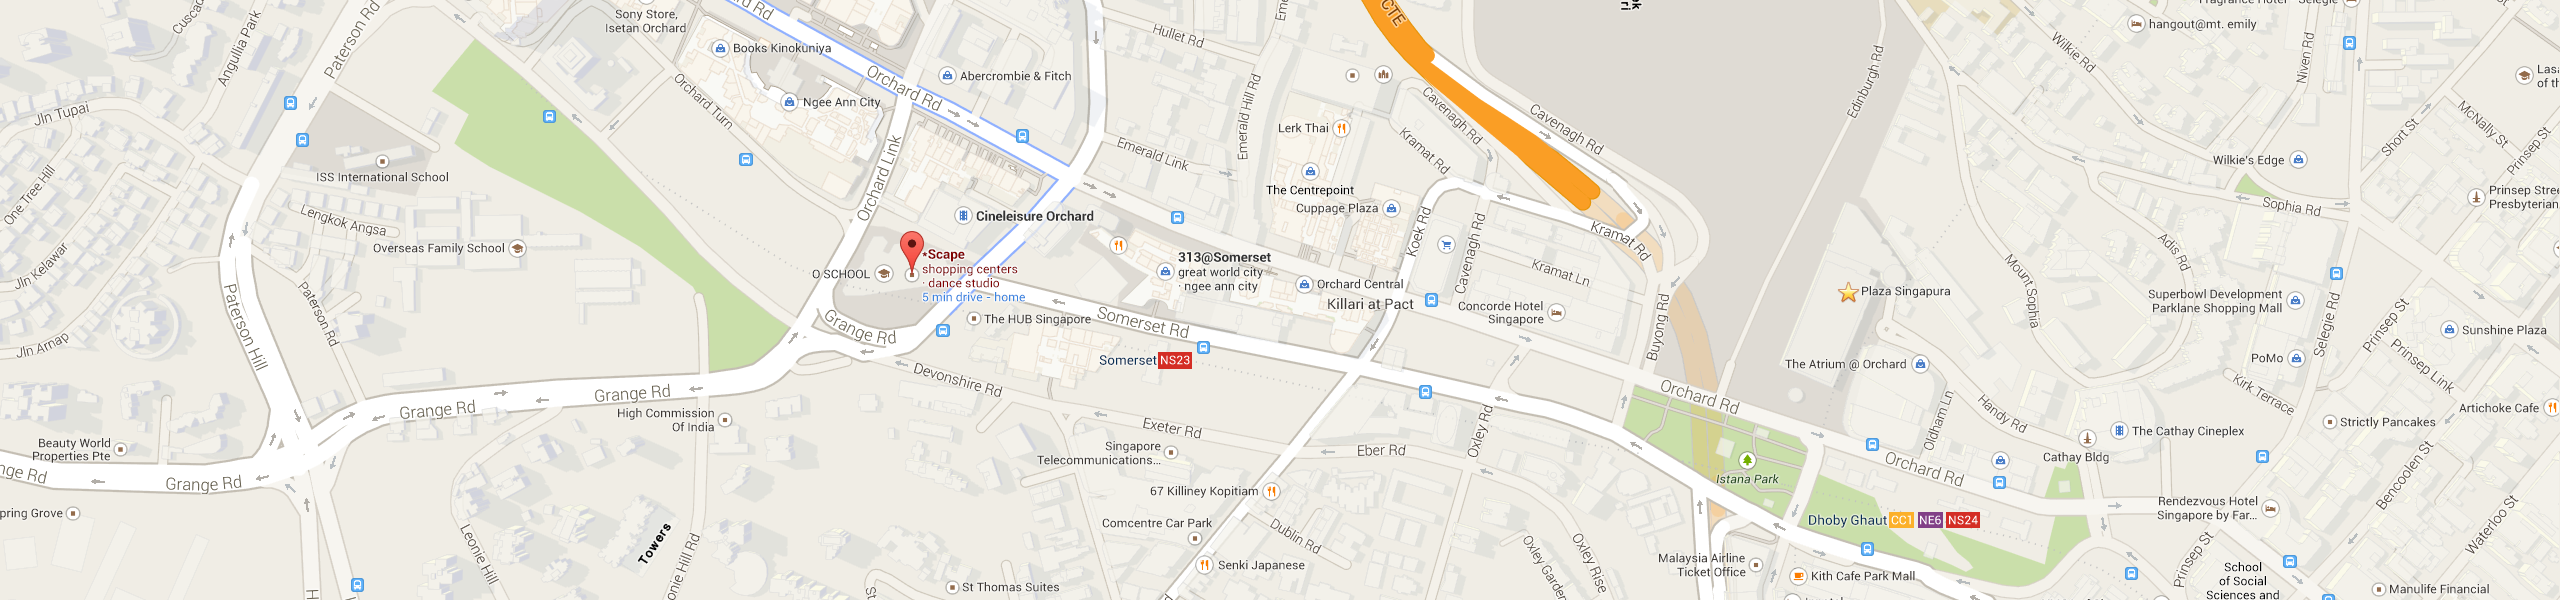
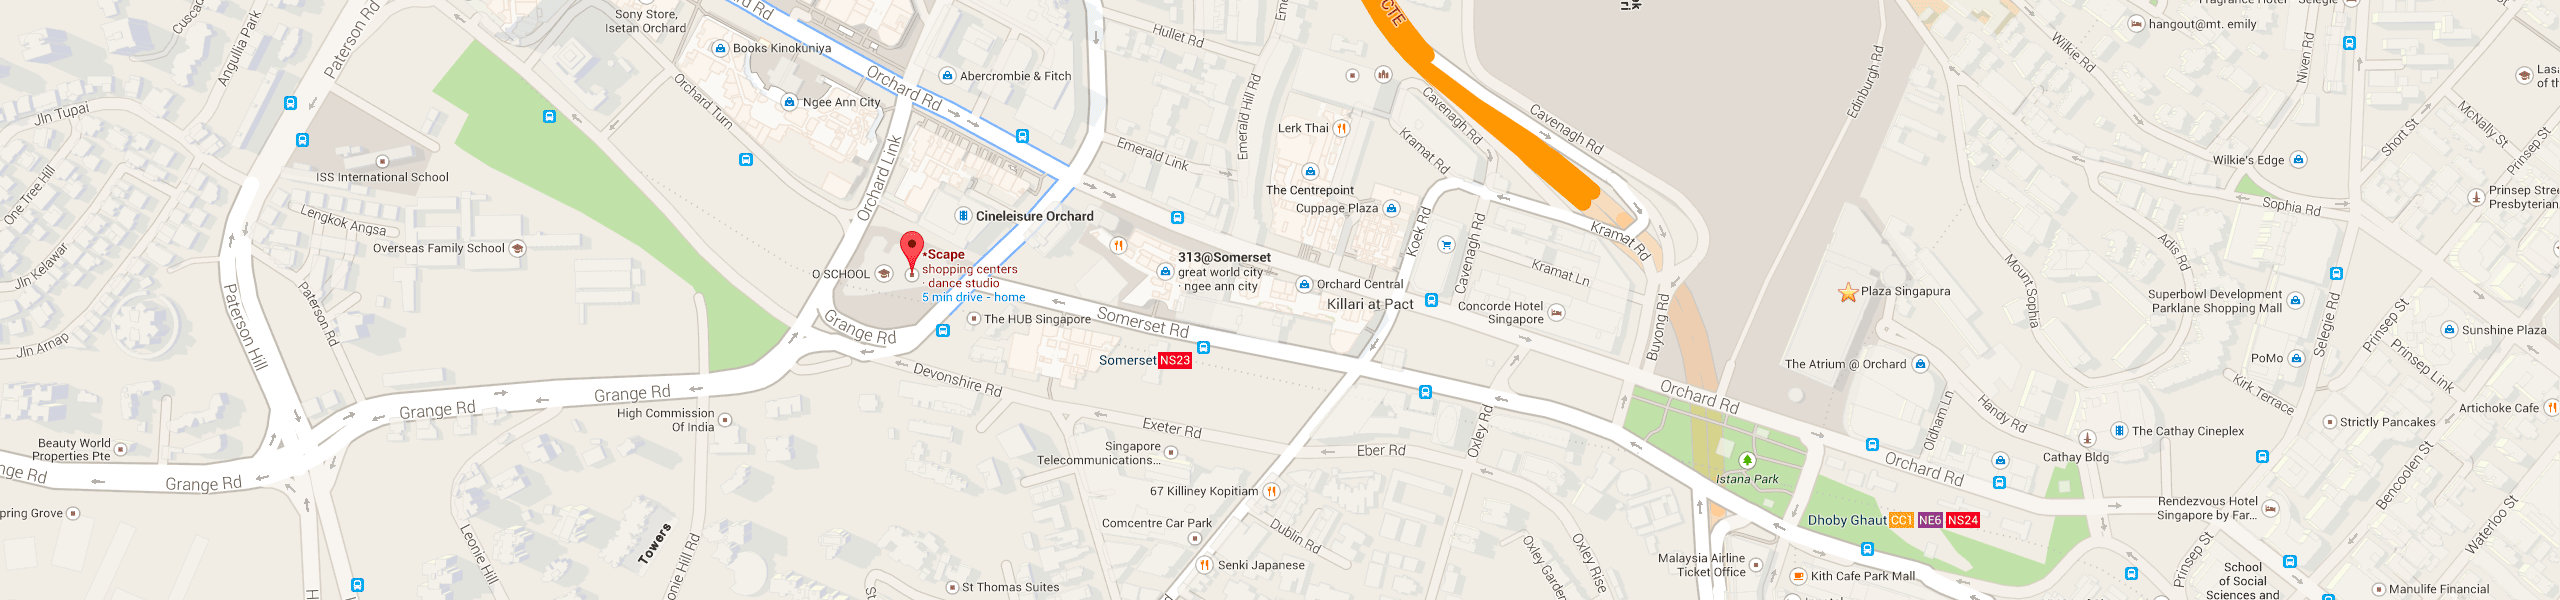
added in some images and optimized them a little

diff --git a/index.html b/index.html
@@ -82,19 +82,21 @@
           <div class="logo-container col-xs-6 col-sm-4"><img src="images/googleLogo.png" class="company-logo"></div>
           <div class="logo-container col-xs-6 col-sm-4"><img src="images/microsoftLogo.png" class="company-logo"></div>
           <div class="logo-container col-xs-6 col-sm-4"><img src="images/paypalLogo.png" class="company-logo"></div>
+          <div class="logo-container col-xs-6 col-sm-4"><img src="images/carousellLogo.png" class="company-logo"></div>
+          <div class="logo-container col-xs-6 col-sm-4"><img src="images/vikiLogo.png" class="company-logo"></div>
           <div class="logo-container col-xs-6 col-sm-4"><img src="images/autodeskLogo.png" class="company-logo"></div>
-          <div class="logo-container col-xs-6 col-sm-4"><img src="http://placehold.it/300x150" class="company-logo"></div>
-          <div class="logo-container col-xs-6 col-sm-4"><img src="http://placehold.it/300x150" class="company-logo"></div>
-          <div class="logo-container col-xs-6 col-sm-4"><img src="http://placehold.it/300x150" class="company-logo"></div>
-          <div class="logo-container col-xs-6 col-sm-4"><img src="http://placehold.it/300x150" class="company-logo"></div>
-          <div class="logo-container col-xs-6 col-sm-4"><img src="http://placehold.it/300x150" class="company-logo"></div>
+          <div class="logo-container col-xs-6 col-sm-4"><img src="images/garenaLogo.png" class="company-logo"></div>
+          <div class="logo-container col-xs-6 col-sm-4"><img src="images/grabTaxiLogo.png" class="company-logo"></div>
+          <div class="logo-container col-xs-6 col-sm-4"><img src="images/visenzeLogo.png" class="company-logo"></div>
+          <div class="logo-container col-xs-6 col-sm-4"><img src="images/redhatLogo.png" class="company-logo"></div>
+          <div class="logo-container col-xs-6 col-sm-4"><img src="images/zopimLogo.png" class="company-logo"></div>
         </div>
       </div>
     </div>
   </div>
 </section>
 
-<section id="startups">
+<section id="speakers">
   <div class="container">
     <div class="row">
       <div class="col-sm-6 col-sm-offset-3 text-center">
@@ -102,46 +104,81 @@
       </div>
     </div>
     <div class="row">
-      <div class="col-xs-6 col-sm-4 text-center profile">
+      <div class="col-xs-6 col-sm-4 col-md-3 text-center profile">
         <img class="profile-photo img-circle" src="http://placehold.it/400x400" alt="...">
         <div class="caption">
-          <h3>Speaker Name</h3>
-          <p>Company Name</p>
+          <h3>Sergio Salvador</h3>
+          <p>Google - Global Head Games Partnerships</p>
         </div>
       </div>
-      <div class="col-xs-6 col-sm-4 text-center profile">
+      <div class="col-xs-6 col-sm-4 col-md-3 text-center profile">
         <img class="profile-photo img-circle" src="http://placehold.it/400x400" alt="...">
         <div class="caption">
-          <h3>Speaker Name</h3>
-          <p>Company Name</p>
+          <h3>Gang Ye</h3>
+          <p>Garena - Chief Technology Officer</p>
         </div>
       </div>
-      <div class="col-xs-6 col-sm-4 text-center profile">
+      <div class="col-xs-6 col-sm-4 col-md-3 text-center profile">
         <img class="profile-photo img-circle" src="http://placehold.it/400x400" alt="...">
         <div class="caption">
-          <h3>Speaker Name</h3>
-          <p>Company Name</p>
+          <h3>Bunnie</h3>
+          <p>Bunnie Labs - Founder</p>
         </div>
       </div>
-      <div class="col-xs-6 col-sm-4 text-center profile">
+      <div class="col-xs-6 col-sm-4 col-md-3 text-center profile">
         <img class="profile-photo img-circle" src="http://placehold.it/400x400" alt="...">
         <div class="caption">
-          <h3>Speaker Name</h3>
-          <p>Company Name</p>
+          <h3>Murali Pappoppula</h3>
+          <p>Autodesk - Reality Solutions Team</p>
         </div>
       </div>
-      <div class="col-xs-6 col-sm-4 text-center profile">
+      <div class="col-xs-6 col-sm-4 col-md-3 text-center profile">
         <img class="profile-photo img-circle" src="http://placehold.it/400x400" alt="...">
         <div class="caption">
-          <h3>Speaker Name</h3>
-          <p>Company Name</p>
+          <h3>Kailash Sethuraman</h3>
+          <p>Google - Software Engineer</p>
         </div>
       </div>
-      <div class="col-xs-6 col-sm-4 text-center profile">
+      <div class="col-xs-6 col-sm-4 col-md-3 text-center profile">
         <img class="profile-photo img-circle" src="http://placehold.it/400x400" alt="...">
         <div class="caption">
-          <h3>Speaker Name</h3>
-          <p>Company Name</p>
+          <h3>Winston Teo</h3>
+          <p>Ruby User Group</p>
+        </div>
+      </div>
+      <div class="col-xs-6 col-sm-4 col-md-3 text-center profile">
+        <img class="profile-photo img-circle" src="http://placehold.it/400x400" alt="...">
+        <div class="caption">
+          <h3>Oliver Tan</h3>
+          <p>Visenze - Founder</p>
+        </div>
+      </div>
+      <div class="col-xs-6 col-sm-4 col-md-3 text-center profile">
+        <img class="profile-photo img-circle" src="http://placehold.it/400x400" alt="...">
+        <div class="caption">
+          <h3>Alvin Jiang</h3>
+          <p>PayPal - Technology Manager</p>
+        </div>
+      </div>
+      <div class="col-xs-6 col-sm-4 col-md-3 text-center profile">
+        <img class="profile-photo img-circle" src="http://placehold.it/400x400" alt="...">
+        <div class="caption">
+          <h3>Aaron Gill</h3>
+          <p>GrabTaxi - Head of Product</p>
+        </div>
+      </div>
+      <div class="col-xs-6 col-sm-4 col-md-3 text-center profile">
+        <img class="profile-photo img-circle" src="http://placehold.it/400x400" alt="...">
+        <div class="caption">
+          <h3>Tan Chun Siong</h3>
+          <p>Microsoft - Technical Evangelist</p>
+        </div>
+      </div>
+      <div class="col-xs-6 col-sm-4 col-md-3 text-center profile">
+        <img class="profile-photo img-circle" src="http://placehold.it/400x400" alt="...">
+        <div class="caption">
+          <h3>Justin Halim</h3>
+          <p>Facebook - Head of Agencies, Southeast Asia</p>
         </div>
       </div>
     </div>
@@ -156,10 +193,12 @@
       <thead>
         <tr><th>Time</th><th>Room 1</th><th>Room 2</th></tr>
       </thead>
-      <tbody>        <tr><td>11:30am</td><td>Registration</td><td>Registration</td></tr>
-        <tr><td>12:00pm</td><td>Opening &amp; Keynote</td><td>Registration</td></tr>
-        <tr><td>1:00pm</td><td>Tech Speaker 1</td><td>Non-tech Speaker 1</td></tr>
-        <tr><td>1:45pm</td><td>Tech Speaker 2</td><td>Non-tech Speaker 2</td></tr>
+      <tbody>
+        <tr><td>12:00pm</td><td colspan="2">Registration</td></tr>
+        <tr><td>12:30pm</td><td colspan="2">Zopim</td></tr>
+        <tr><td>12:50pm</td><td colspan="2">Google</td></tr>
+        <tr><td>1:30pm</td><td>Bunnie &amp; Sean</td><td>Tan Chun Siong</td></tr>
+        <tr><td>1:55pm</td><td>Murali Pappoppula</td><td>Non-tech Speaker 2</td></tr>
         <tr><td>2:10pm</td><td>Tech Speaker 3</td><td>Non-tech Speaker 3</td></tr>
         <tr><td>2:50pm</td><td>Mid-term speec</td><td>Registration</td></tr>
         <tr><td>3:20pm</td><td>Tech Speaker 4</td><td>Non-tech Speaker 4</td></tr>
@@ -180,17 +219,8 @@
     </div>
   </div>
 </section>
-<div>
-  <div class="container-fluid">
-    <div class="row">
-      <div id="location-image1" class="location-image col-sm-4"></div>
-      <div id="location-image2" class="location-image col-sm-4"></div>
-      <div id="location-image3" class="location-image col-sm-4"></div>
-    </div>
-  </div>
-</div>
 
-<section>
+<section id="registration">
   <div class="container">
     <iframe id="registration-frame" src="//eventbrite.sg/tickets-external?eid=12362824541&ref=etckt" frameborder="0" scrolling="auto"></iframe>
   </div>

diff --git a/css/techfest.css b/css/techfest.css
@@ -59,18 +59,21 @@ section {
   margin: 0px auto;
 }
 
-/* Startups*/
-#startups {
+/* speakers */
+#speakers {
   background-color: #FA3;
   color: #FFF;
 }
-#startups h1,
-#startups h2,
-#startups h3,
-#startups h4,
-#startups h5,
-#startups h6 {
+#speakers h1,
+#speakers h2,
+#speakers h3,
+#speakers h4,
+#speakers h5,
+#speakers h6 {
   color: #FFF;
+}
+.profile {
+  height: 250px;
 }
 .profile-photo {
   display: block;
@@ -94,22 +97,6 @@ section {
 #location-description {
   background: rgba(255,255,255,0.9);
   padding: 15px;
-}
-
-.location-image {
-  height: 300px;
-  background-position: center center;
-  background-repeat: no-repeat;
-  background-size: cover;
-}
-#location-image1 {
-  background-image: url(../images/location1.jpg);
-}
-#location-image2 {
-  background-image: url(../images/location2.jpg);
-}
-#location-image3 {
-  background-image: url(../images/location3.jpg);
 }
 
 /* Registration */
